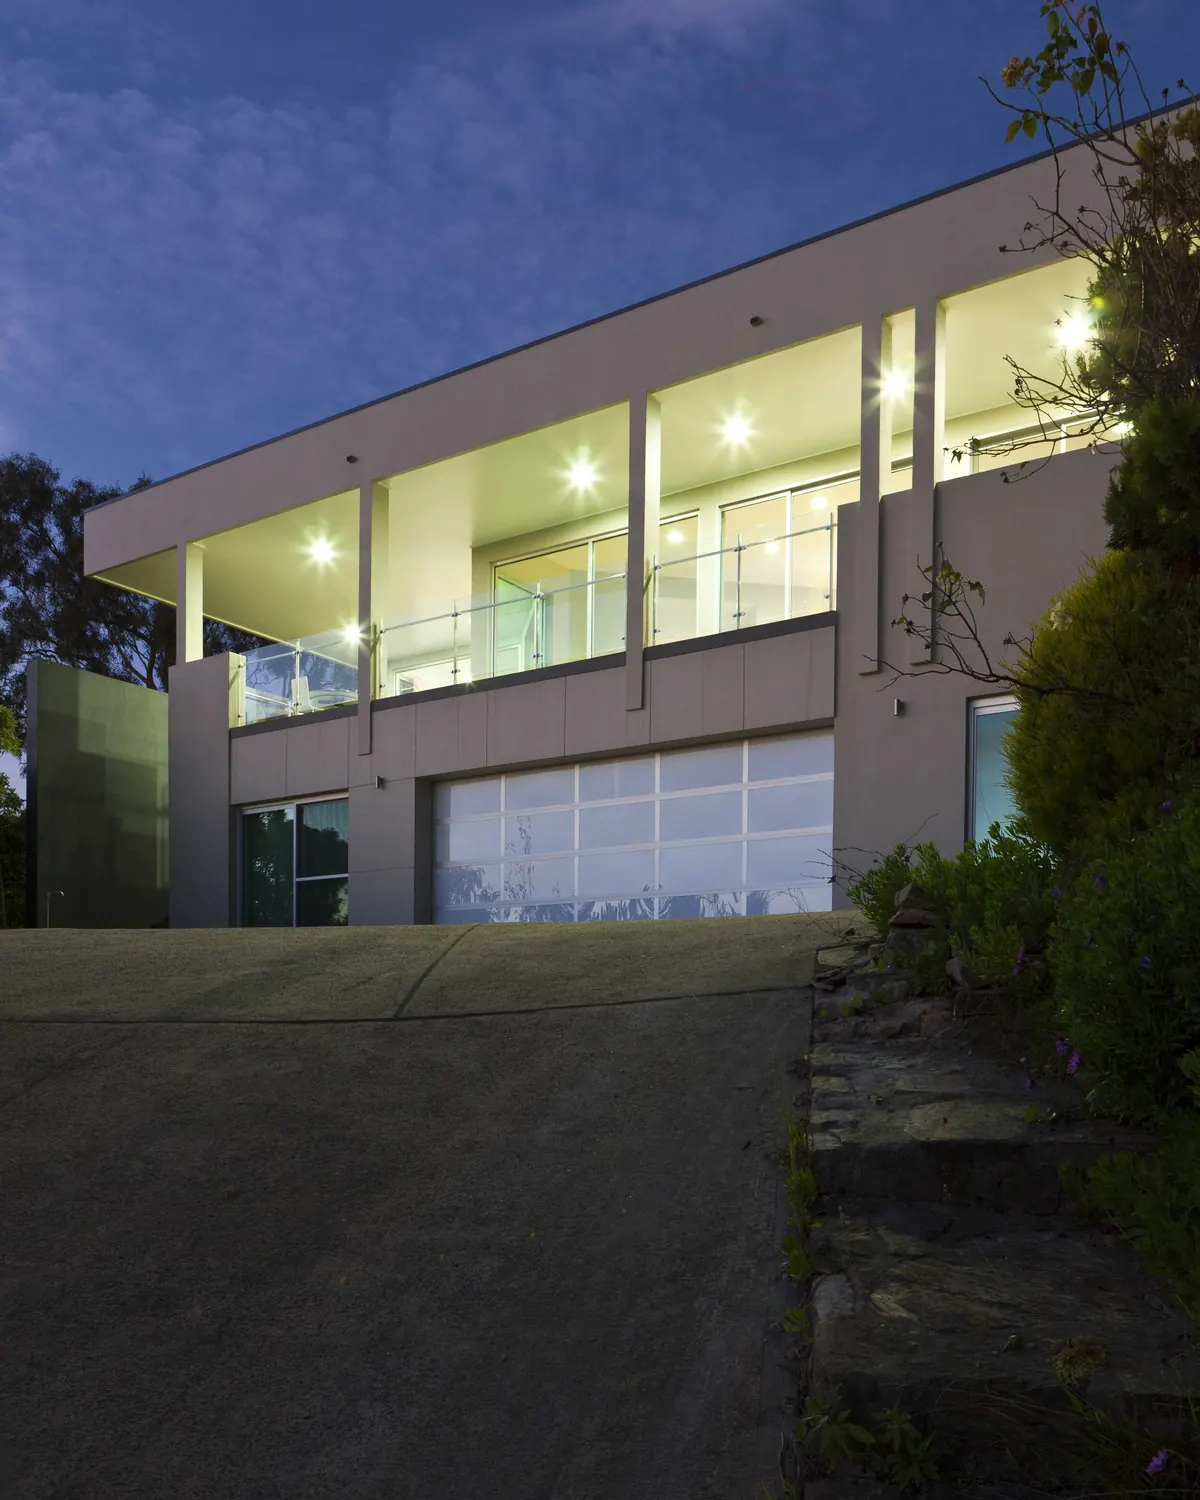
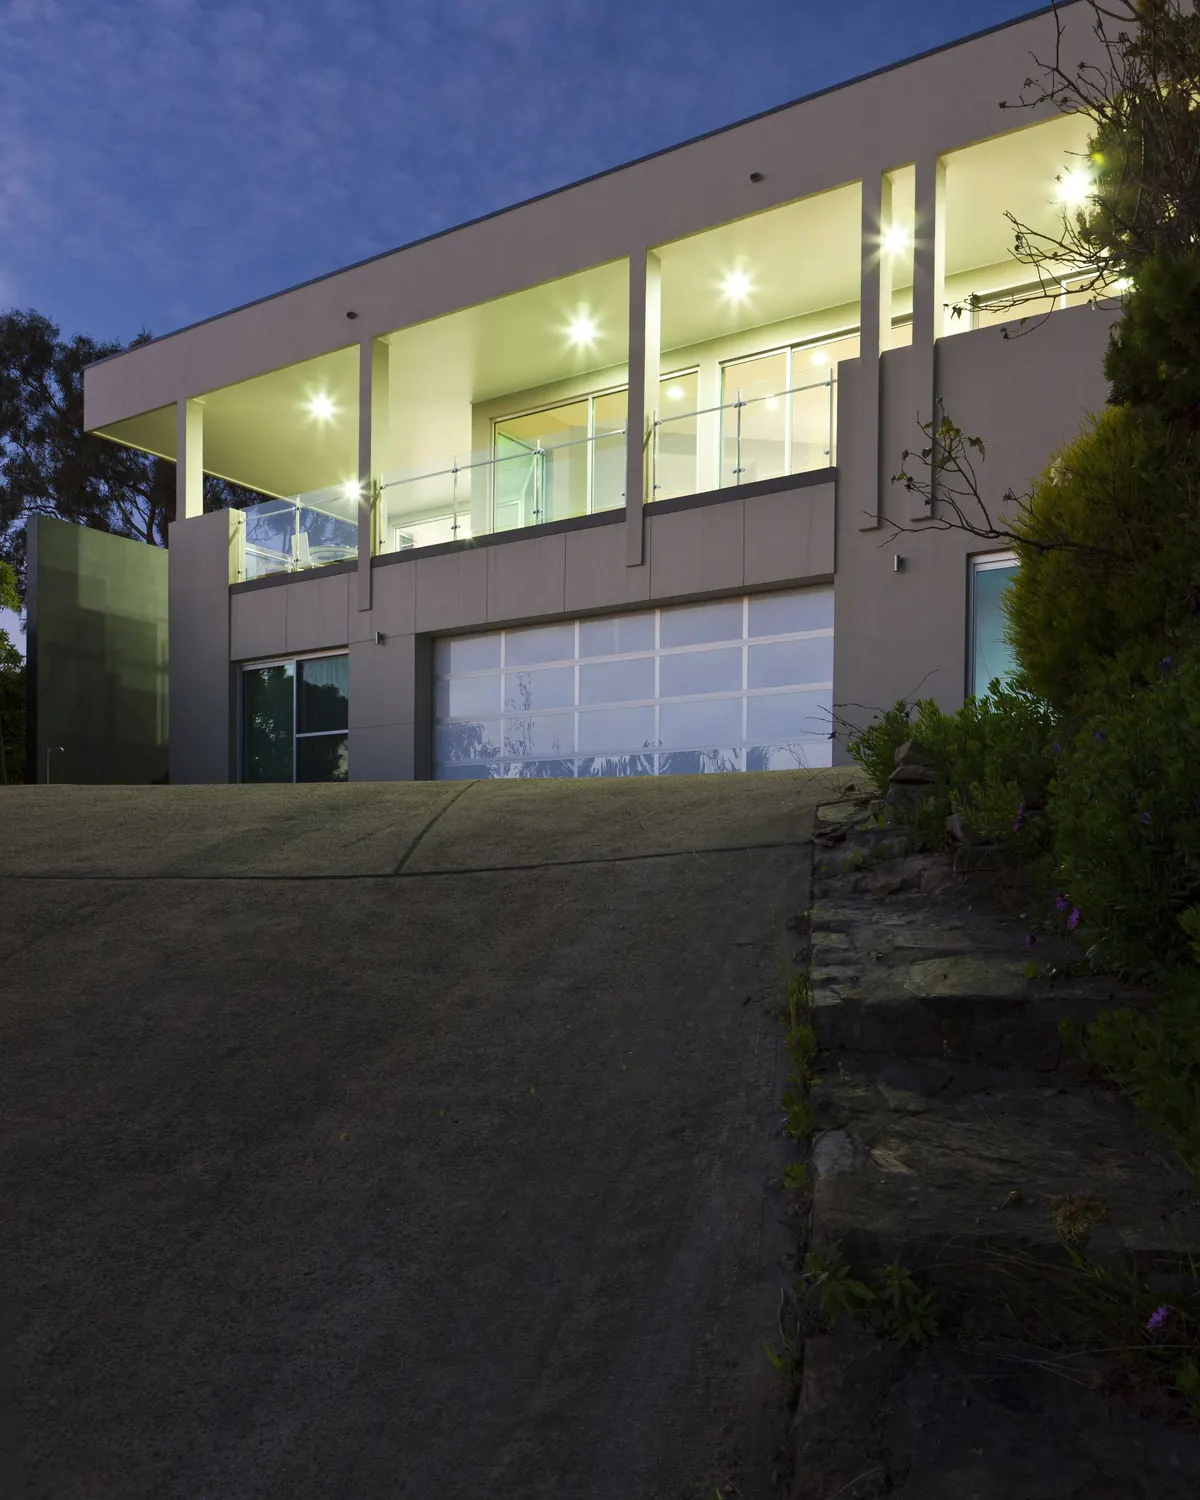
Pinczi Builders: built, needs Pat (no reviews)
Claude-Session: https://claude.ai/code/session_01UFovFdhkFkxqNw67e8pQBg

diff --git a/clients/prostyle-building/styles.css b/clients/prostyle-building/styles.css
@@ -2,12 +2,13 @@
  * ProStyle Building Group: client layer over the trust template.
  * Appended after the template's CSS (lib/build.js), so it only touches this site.
  *
- * Hero: garran-dusk-portrait is a 4:5 crop of their Garran dusk shot. The house sits
- * in the top half of the frame, so the focal point is raised on both widths.
- * At 390px the whole lit upper verandah and the garage stay in frame.
+ * Hero: garran-dusk-portrait is a 4:5 crop of their Garran dusk shot, cropped so the
+ * lit upper verandah sits in the top third, where the hero veil is lightest.
+ * On a phone the whole image height shows, and x 44% keeps the columns, verandah
+ * and garage in frame. On desktop the focal point is raised to the roofline.
  */
-.hero img.bg{object-position:50% 30%}
-@media(max-width:700px){.hero img.bg{object-position:42% 34%}}
+.hero img.bg{object-position:50% 8%}
+@media(max-width:700px){.hero img.bg{object-position:44% 50%}}
 
-/* Team photo: their original is only 858px wide, so show it no wider than that renders sharply. */
+/* Team photo: their original is only 858px wide, so it isn't shown wider than that renders sharply. */
 @media(min-width:960px){.about .figure{max-width:440px}}

diff --git a/clients/pinczi-builders/BRIEF.md b/clients/pinczi-builders/BRIEF.md
@@ -24,7 +24,7 @@ Pinczi Builders Pty Ltd is a Bowral builder who has "worked exclusively in the S
 No Google rating and no Google reviews (`"flag": "No Google rating or reviews found."`). There are no testimonials on their site either. **Reviews stay empty, and no rating or count appears anywhere.** The closest thing they have is their own line, "Ask anyone in the district about Steve Pinczi – you're sure to get a warm and positive response." That's the reputation Google should be showing, and it's Pat's pitch.
 
 ## The one angle
-**Only the Southern Highlands, for over twenty years, and a name people there know.** Their own words: "worked exclusively in the Southern Highlands for over two decades", "one of the most professional builders in the district", and "Ask anyone in the district about Steve Pinczi". The hero headline is "Ask anyone in the Highlands about Steve." It's their own line, it's local, and it doubles as the opener for the review pitch. The sub carries the twenty-years-only-the-Highlands fact and the range: homes, additions, Oxley College Junior School. The hero photo is the Burradoo home at dusk, with a lit bedroom window over a lit pool: their newest and best-shot project, and it reads well under a dark overlay on a phone.
+**Only the Southern Highlands, for over twenty years, and a name people there know.** Their own words: "worked exclusively in the Southern Highlands for over two decades", "one of the most professional builders in the district", and "Ask anyone in the district about Steve Pinczi". The hero headline is "Ask anyone in the Highlands about Steve." It's their own line, it's local, and it doubles as the opener for the review pitch. The sub carries the twenty-years-only-the-Highlands fact and the range: homes, additions, Oxley College Junior School. The hero photo is the Burrawang Farmhouse: a white farmhouse with a recycled-brick chimney. I tried the Burradoo dusk shot first, but it went almost black under the template's veil on a phone. The farmhouse's white roof and chimney stay visible, so the dusk shot moved to the statement section.
 
 ## What's weak on their current site (for Pat's call)
 - **The home page has no words.** It's one photo and a "CUSTOM BUILDERS" banner image. There's no phone number, no call button and no mention of the Southern Highlands or Steve.
@@ -41,8 +41,8 @@ I downloaded all 108 media-library files at the largest size the site serves (Wo
 **Used (13 slots, 13 different photos)**
 | Slot | File | Size | Shows | Caption source |
 |---|---|---|---|---|
-| Hero | 74a_Burradoo_Road_Dusk_Bodhi_Photo-24-scaled.jpg | 2560×1707 | Weatherboard home at dusk, lit bedroom window, lit pool, lawn, post-and-wire fence | Media title "74A Burradoo Road, Burradoo" |
-| Statement | 6E31BD76-…-min-scaled.jpeg | 2560×1709 | White farmhouse, recycled-brick chimney with wood store, deck and wide timber steps, lawn | Page "Burrawang Farmhouse" (also its portfolio tile) |
+| Statement | 74a_Burradoo_Road_Dusk_Bodhi_Photo-24-scaled.jpg | 2560×1707 | Weatherboard home at dusk, lit bedroom window, lit pool, lawn, post-and-wire fence | Media title "74A Burradoo Road, Burradoo" |
+| Hero | 6E31BD76-…-min-scaled.jpeg | 2560×1709 | White farmhouse, recycled-brick chimney with wood store, deck and wide timber steps, lawn | Page "Burrawang Farmhouse" (also its portfolio tile) |
 | Aperture | 74a_Burradoo_Road-184-scaled.jpg | 2560×1706 | Dining room, raked lining-board ceiling, brick fireplace wall, sliders to covered deck | "Burradoo" |
 | Enquiry bg | 2AFCCFDF-…-min-scaled.jpeg | 2560×1707 | Covered deck with brick outdoor fireplace, wicker lounge, dining | "Burrawang Farmhouse" |
 | Service: Custom homes | kangaloonrdkangaloon13.webp | 1024×682, cropped to 1024×560 | Charcoal-clad home, stone chimney, shingle gables, red door, pergola | Page "Kangaloon" |

diff --git a/MORNING_REPORT.md b/MORNING_REPORT.md
@@ -552,6 +552,10 @@ Every fact checks out and 5.0 from 35 is strong, but Nulook has no photos of its
 Real Calwell business (ABN since 2014, SPASA and Master Builders members). Owner Craig; crew Mick and Joel. Angle: "Pools, and the earthworks behind them." Facts all check out. Held back only by photos: every photo they have online is a small web copy, so the hero looks smeared when shown large. **Ask Craig for his original phone photos** (hero 1600px+), plus his licence number; more Google reviews (5.0 from 1) is the pitch.
 **Opener:** "I noticed your best work — the Weetangera and Throsby pools, the Denman Prospect site cut — is buried in two old blog posts, while your homepage shows eleven 2016 catalogue shapes and never mentions the earthworks side."
 
+### Pinczi Builders — needs Pat (built, not reviewed)
+Real Bowral builder: Steve Pinczi, ABN 51 633 339 885 (since 2019), licence 350923C (not yet checked on the register), HIA badge on their site. Over 100 of their own professional photos, none upscaled. Angle, from their own About page: "Ask anyone in the Highlands about Steve." Not sent to review because it has **no Google reviews**, so the gate can never say READY. Close to ready otherwise. **Ask Steve:** a few Google reviews (the pitch), is 0411 540 495 his own mobile (then the bar can say "Call Steve"), are HIA and the licence current, what year he started, a photo of himself, and details of the Oxley College job. Their own site has broken pages Google can see (e.g. /kangaloon-2/ shows "critical error"), which is another talking point.
+**Opener:** "I noticed your About page says to ask anyone in the district about Steve, but Google has no reviews at all. Your home page doesn't even show your phone number."
+
 ### Meyers Building Group — needs Pat (built, not reviewed)
 Real Bowral builder (ABN 74 092 054 594, trading since 2000; old names Darren Meyers Carpentry/Constructions). Angle: "Most of our work comes by word of mouth" (their site: 80% repeat and referral). Not sent to review because it has **no Google reviews**, so the gate can never say READY. Their only photos are 960px phone shots of one job (the builder AI-upscaled them, which a reviewer would mark down), and one tile uses a labelled sample photo. **Ask Darren:** a few Google reviews (that's the pitch), full-size photos of other jobs and his machine, licence number (135713C is unconfirmed), OK to name him, suburbs he covers.
 **Opener:** "I noticed 80% of your work is repeat clients and referrals, but Google shows no reviews for Meyers Building Group, and your website never says you're in Bowral."
